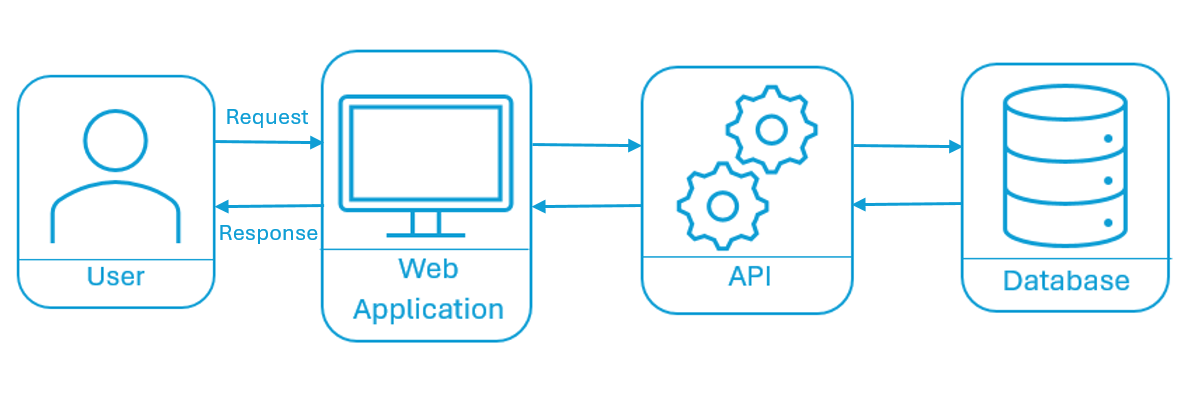
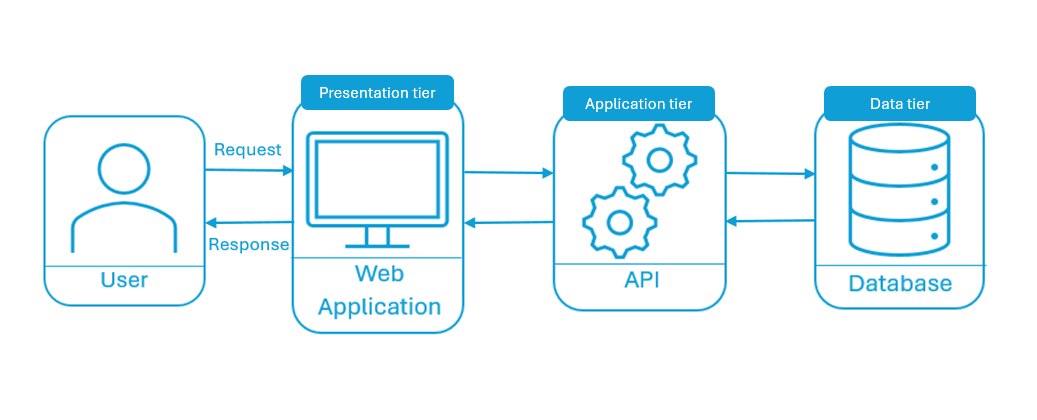
Updating timelog (issue #2)

Changed region(s): [[0.0, 0.1209, 0.9875, 0.8766]]

diff --git a/timelog.md b/timelog.md
@@ -424,9 +424,11 @@
 ### 24 Feb 2024
 * *5 hours* Reading requirements sections from exemplar dissertations, creating user scenarios and refining these. Wrote up majority of user stories - some still need refining. Used the MoSCoW method to organise the functional requirements of RViT. Finally wrote down a short list of the non functional requirements I could think of.
 
-
 ### 25 Feb 2024
 * *4 hours* Finished writing non-functional requirements section and began working on design section. Also create a high level system architecture diagram.
 
 ### 26 Feb 2024
 * *3.5 hours* More work on design section - researched differences between REST and SOAP APIs and more about system architecture.
+
+### 27 and 28 Feb 2024
+* *7 hours* Finished first draft of design section. Also looked further into the three different agile project management tools I decided to talk about in the background section.  
